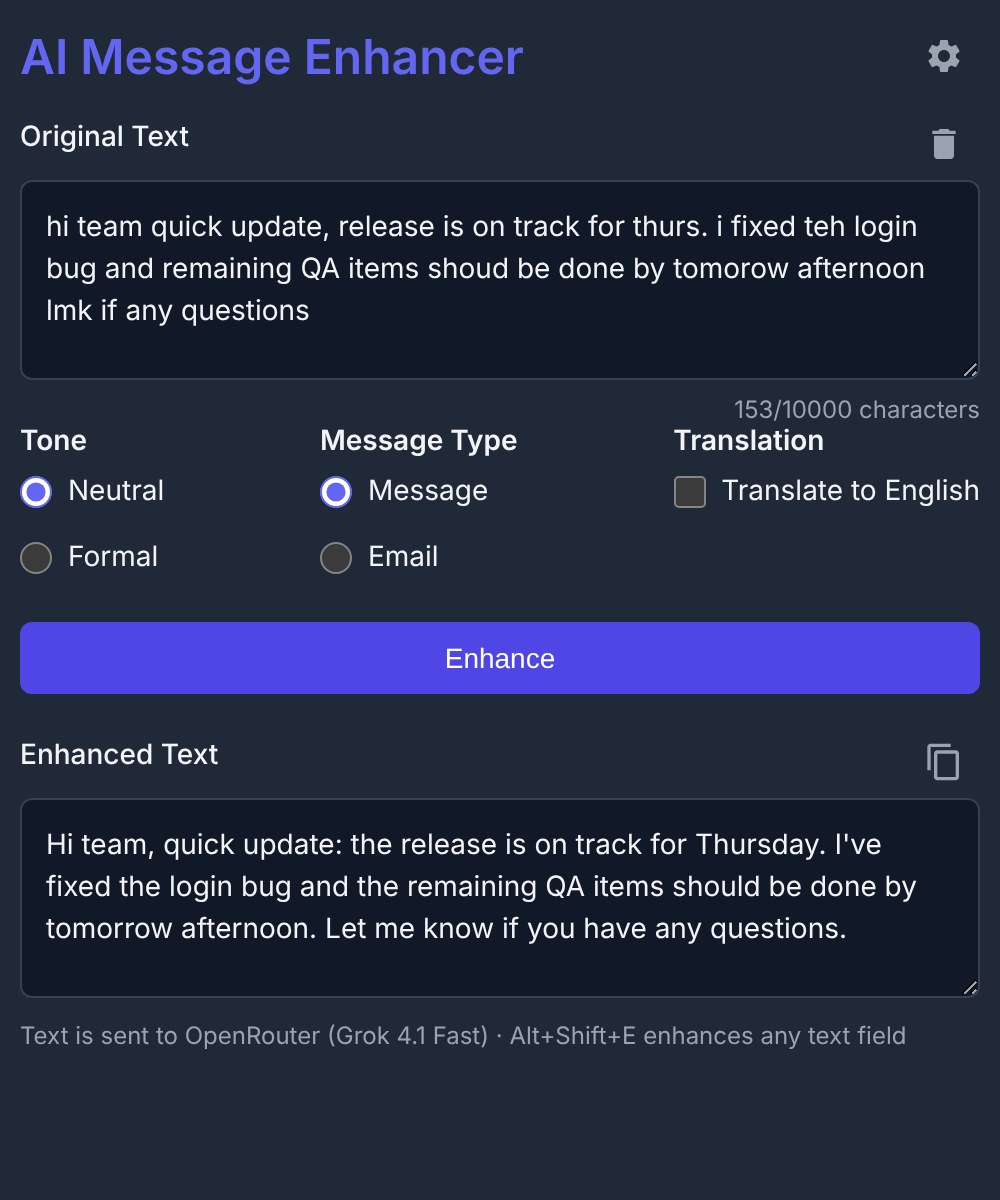
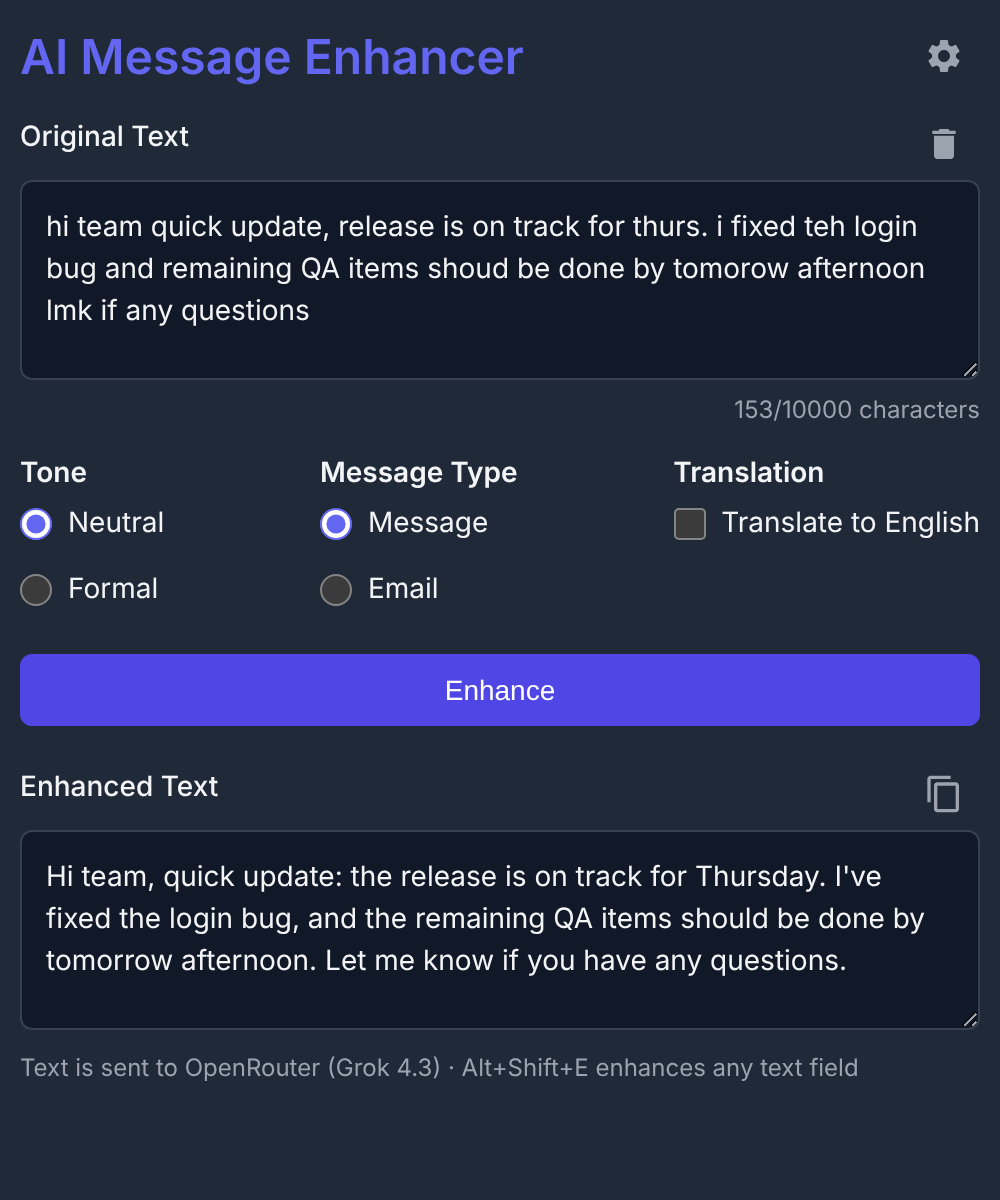
fix(popup): add space between the character count and the options
The count sat right on top of the Tone, Message Type and Translation headings. The input section now has the same 1rem gap as the options section below it.

Changed region(s): [[0.0, 0.3392, 0.992, 0.8942], [0.651, 0.3392, 0.992, 0.4625], [0.961, 0.8325, 0.992, 0.8633]]

diff --git a/src/styles/popup.css b/src/styles/popup.css
@@ -63,6 +63,10 @@ textarea:focus {
   box-shadow: 0 0 0 3px rgba(99, 102, 241, 0.1);
 }
 
+.input-section {
+  margin-bottom: 1rem;
+}
+
 .char-count {
   font-size: 0.75rem;
   color: var(--secondary-text);
